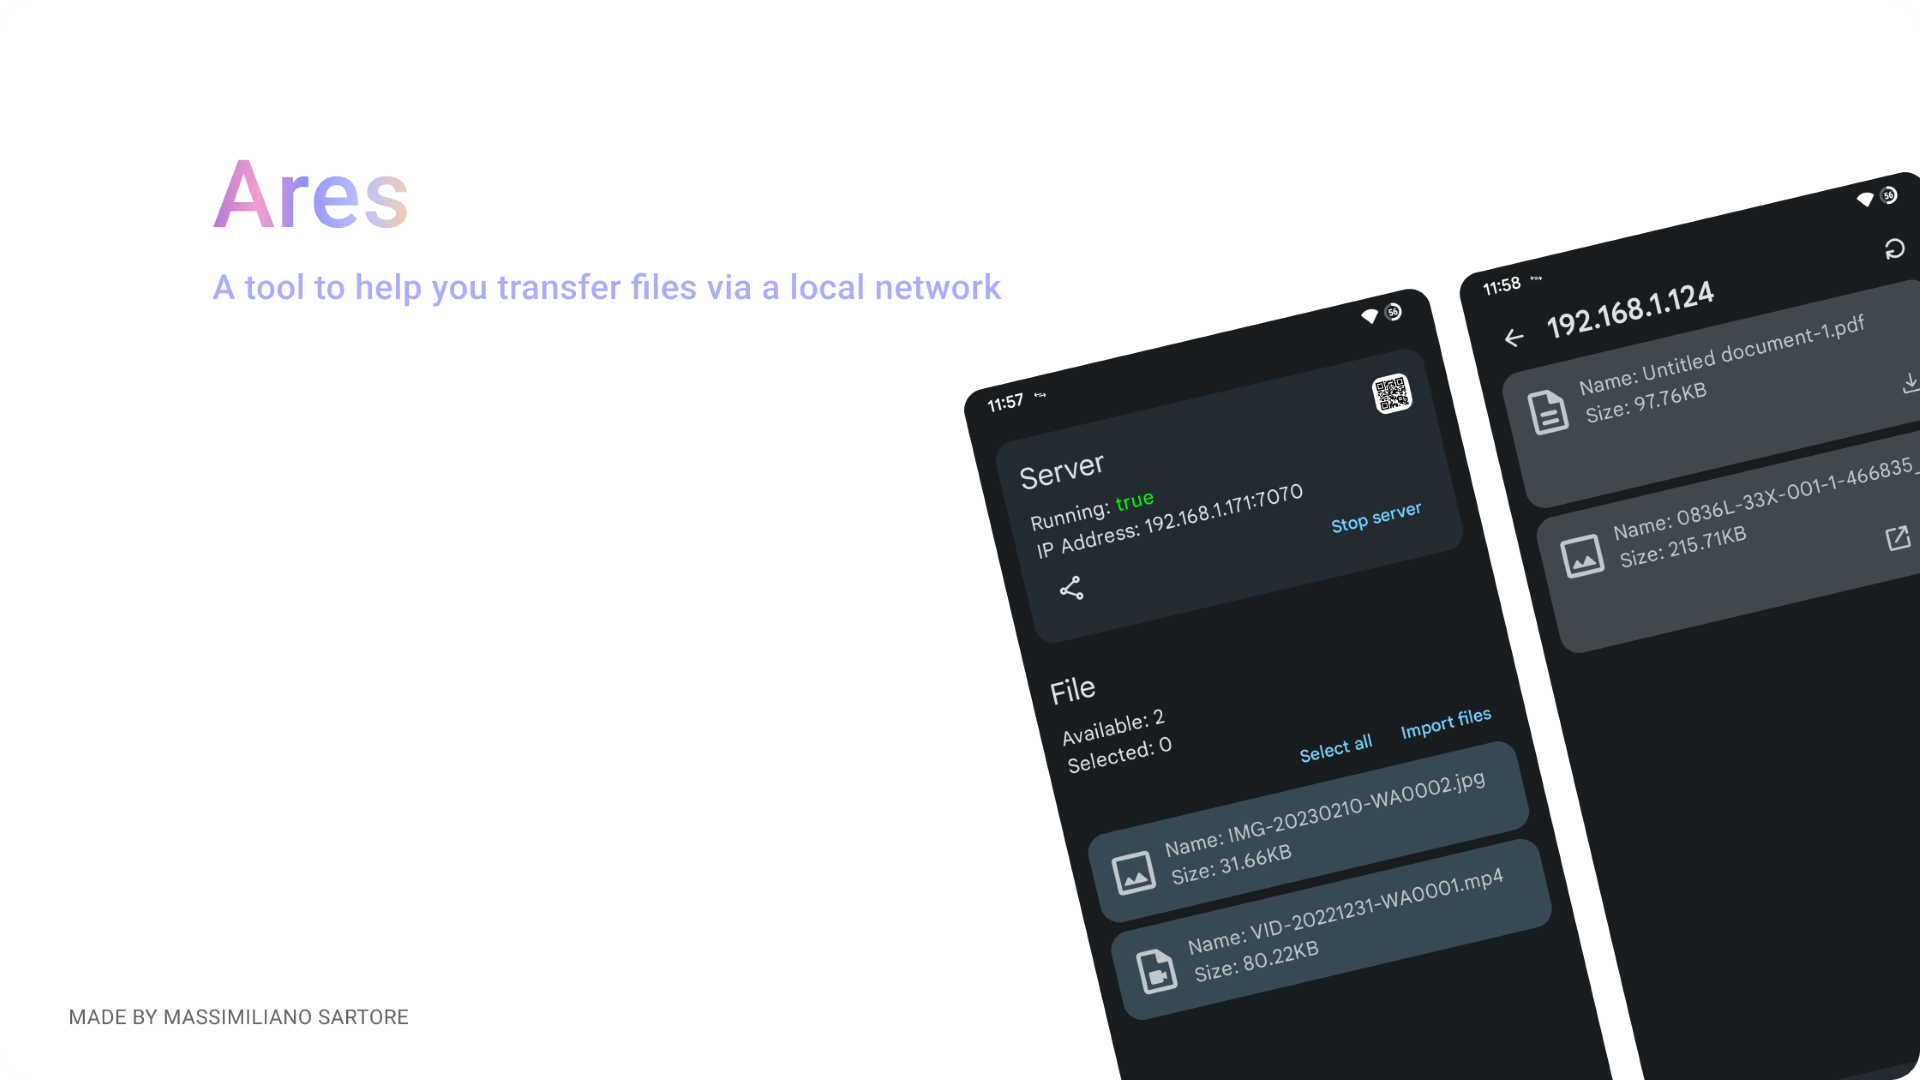
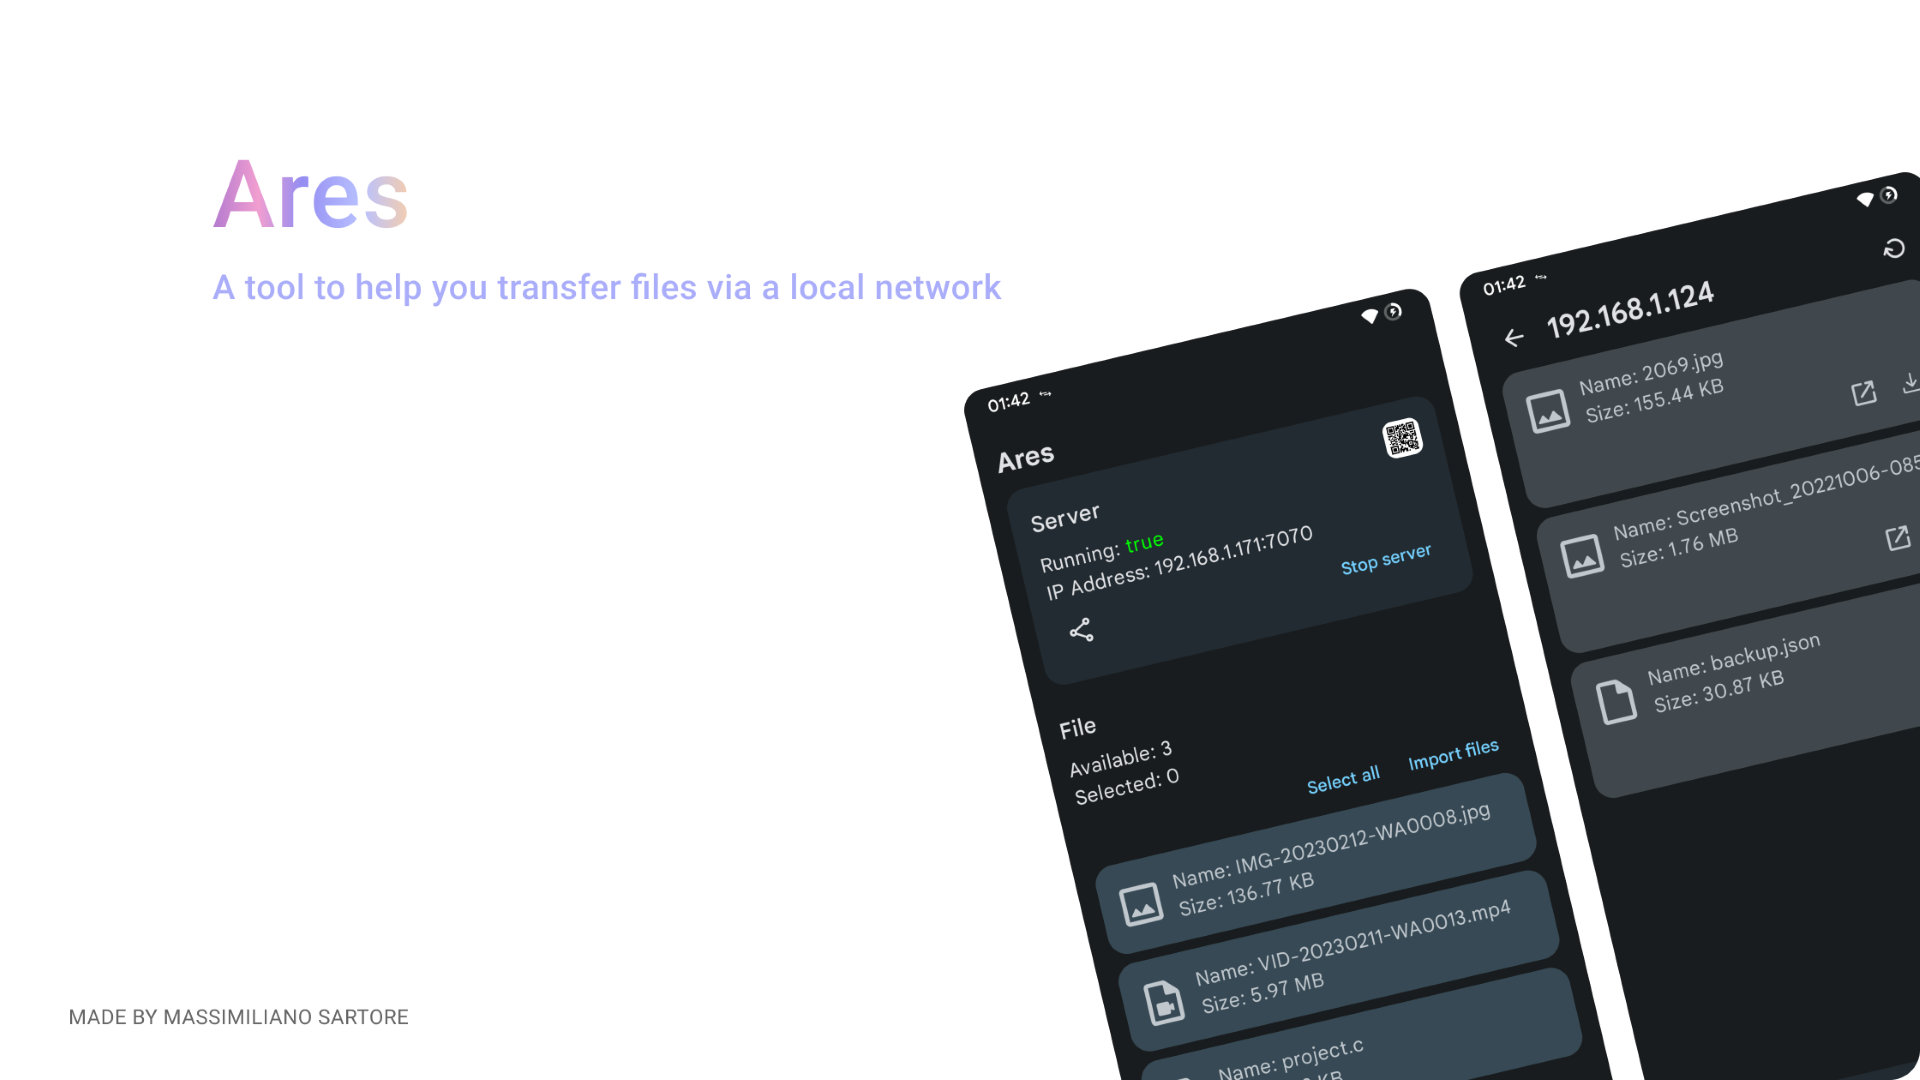
update browser ui and app ui

diff --git a/app/src/main/java/dev/msartore/ares/ui/views/HomeUI.kt b/app/src/main/java/dev/msartore/ares/ui/views/HomeUI.kt
@@ -31,9 +31,11 @@ import androidx.compose.ui.draw.clip
 import androidx.compose.ui.graphics.Color
 import androidx.compose.ui.platform.LocalContext
 import androidx.compose.ui.res.stringResource
+import androidx.compose.ui.text.font.FontWeight
 import androidx.compose.ui.text.style.TextAlign
 import androidx.compose.ui.unit.Dp
 import androidx.compose.ui.unit.dp
+import androidx.compose.ui.unit.sp
 import androidx.lifecycle.viewmodel.compose.viewModel
 import dev.msartore.ares.R
 import dev.msartore.ares.server.KtorService.KtorServer.port
@@ -67,20 +69,11 @@ fun HomeUI(
             verticalArrangement = Arrangement.spacedBy(8.dp)
         ) {
 
-            Row(
-                modifier = Modifier.fillMaxWidth(),
-                horizontalArrangement = Arrangement.Start,
-                verticalAlignment = Alignment.CenterVertically
-            ) {
-                Icon(
-                    modifier = Modifier.size(30.dp),
-                    id = R.drawable.logo,
-                )
-                TextAuto(
-                    id = R.string.ares,
-                    style = MaterialTheme.typography.titleLarge,
-                )
-            }
+            TextAuto(
+                id = R.string.ares,
+                style = MaterialTheme.typography.titleLarge,
+                fontWeight = FontWeight.Bold
+            )
 
             Column(
                 modifier = Modifier
@@ -99,7 +92,8 @@ fun HomeUI(
                     ) {
                         TextAuto(
                             id = R.string.server,
-                            style = MaterialTheme.typography.titleMedium
+                            fontSize = 18.sp,
+                            fontWeight = FontWeight.Medium
                         )
 
                         if (isServerOn.value)
@@ -199,7 +193,8 @@ fun HomeUI(
             Column {
                 TextAuto(
                     id = R.string.file,
-                    style = MaterialTheme.typography.titleMedium
+                    fontSize = 18.sp,
+                    fontWeight = FontWeight.Medium
                 )
 
                 Spacer(modifier = Modifier.height(8.dp))

diff --git a/app/src/main/java/dev/msartore/ares/ui/views/ServerFinderUI.kt b/app/src/main/java/dev/msartore/ares/ui/views/ServerFinderUI.kt
@@ -30,6 +30,7 @@ import androidx.compose.ui.draw.clip
 import androidx.compose.ui.platform.LocalContext
 import androidx.compose.ui.res.painterResource
 import androidx.compose.ui.res.stringResource
+import androidx.compose.ui.text.font.FontWeight
 import androidx.compose.ui.unit.Dp
 import androidx.compose.ui.unit.dp
 import dev.msartore.ares.R
@@ -104,7 +105,10 @@ fun ServerFinderUI(
                             CircularProgressIndicator(modifier = Modifier.size(50.dp))
                         }
                         else -> {
-                            TextAuto(id = R.string.no_server_found)
+                            TextAuto(
+                                id = R.string.no_server_found,
+                                fontWeight = FontWeight.Bold
+                            )
                         }
                     }
                 }

diff --git a/app/src/main/java/dev/msartore/ares/utils/FileHandler.kt b/app/src/main/java/dev/msartore/ares/utils/FileHandler.kt
@@ -87,10 +87,10 @@ fun String.contains(collection: Collection<String>) =
 
 fun Int.printableSize() =
     when(this) {
-        in 0..10000 -> "${this/1}B"
-        in 10000..1000000 -> "%.2f".format(this/1000.0) + "KB"
-        in 1000000..1000000000 -> "%.2f".format(this/1000000.0) + "MB"
-        else -> "%.2f".format(this/1000000000.0) + "GB"
+        in 0..999 -> "$this B"
+        in 1000..999999 -> "%.2f".format(this/1000.0) + " KB"
+        in 1000000..1000000000 -> "%.2f".format(this/1000000.0) + " MB"
+        else -> "%.2f".format(this/1000000000.0) + " GB"
     }
 
 fun FileData.toFileDataJson(index: Int?) =

diff --git a/app/src/main/assets/style.css b/app/src/main/assets/style.css
@@ -10,7 +10,7 @@ body {
 }
 .form form, .form b {
     position: relative;
-    width: inherit;
+    width: fit-content;
     left: 5%;
     top: 25%;
 }
